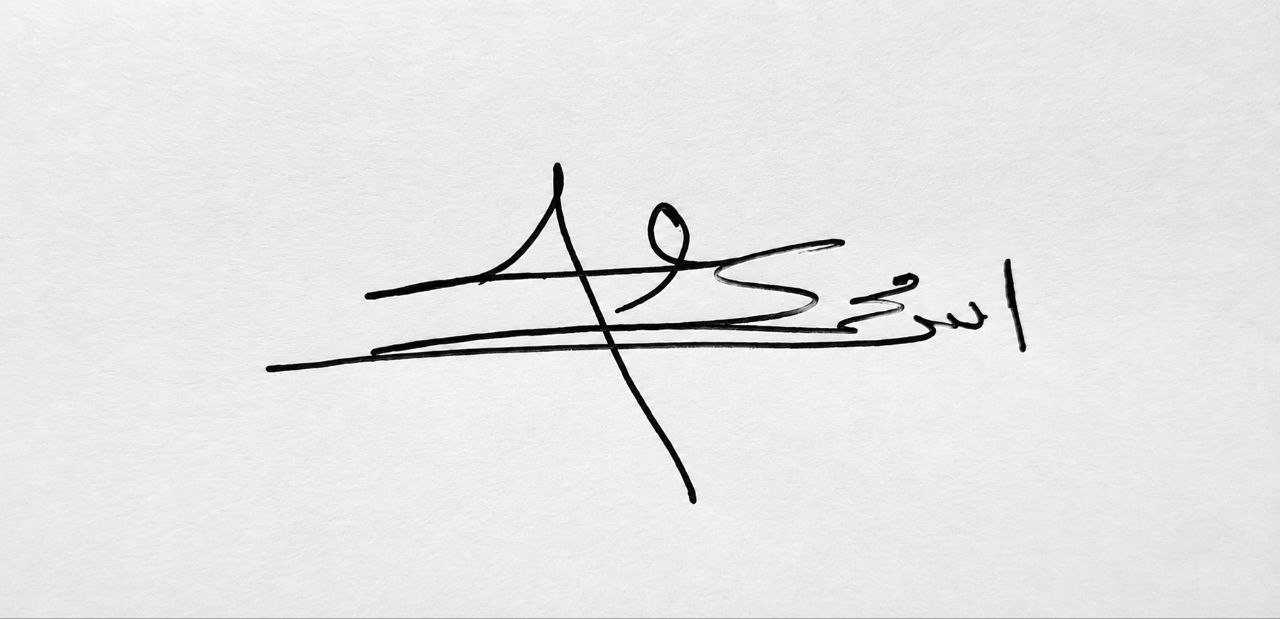
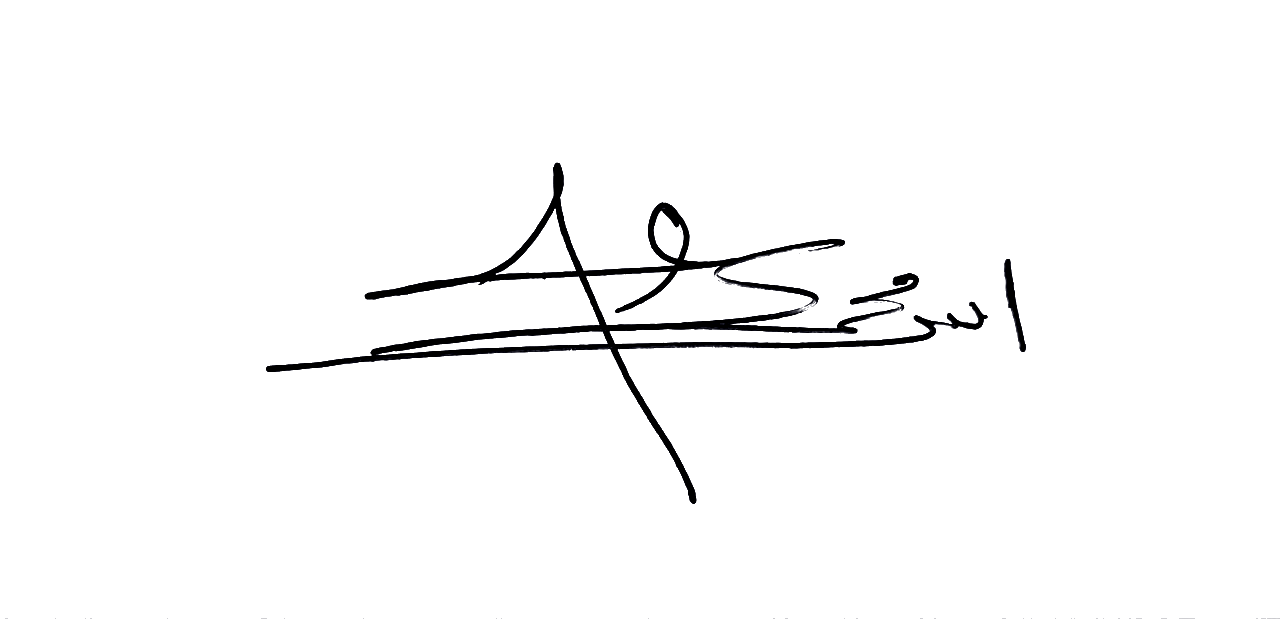
fix: convert signature to true 100% transparent PNG and place right over signature line

diff --git a/src/components/CertificateModal.tsx b/src/components/CertificateModal.tsx
@@ -551,24 +551,25 @@ export default function CertificateModal({ data, onClose }: { data: CertificateD
                 </p>
 
                 {/* Handwritten Signature Image & Line */}
-                <div style={{ position: 'relative', width: 220, marginTop: 4 }}>
+                <div style={{ position: 'relative', width: 220, marginTop: 14 }}>
+                  <div style={{ borderBottom: '1.5px solid #64748b', width: '100%', paddingBottom: 2, display: 'flex', alignItems: 'center', justifyContent: 'space-between' }}>
+                    <span style={{ fontSize: 9.5, fontWeight: 900, color: '#64748b' }}>
+                      {isAr ? 'التوقيع المعتمد ✍' : 'Authorized Signature ✍'}
+                    </span>
+                  </div>
                   <img
                     src="/dr-ismail-signature.png"
                     alt="التوقيع المعتمد"
                     style={{
+                      position: 'absolute',
+                      bottom: 2,
+                      right: isAr ? 0 : 'auto',
+                      left: isAr ? 'auto' : 0,
                       height: 48,
                       objectFit: 'contain',
-                      marginBottom: -12,
-                      marginLeft: isAr ? '0' : 'auto',
-                      marginRight: isAr ? 'auto' : '0',
-                      mixBlendMode: 'multiply'
+                      pointerEvents: 'none'
                     }}
                   />
-                  <div style={{ borderBottom: '1.5px solid #94a3b8', width: '100%', paddingTop: 4, display: 'flex', justifyContent: isAr ? 'flex-start' : 'flex-end' }}>
-                    <span style={{ fontSize: 9.5, fontWeight: 900, color: '#64748b' }}>
-                      {isAr ? 'التوقيع المعتمد' : 'Authorized Signature'}
-                    </span>
-                  </div>
                 </div>
               </div>
 

diff --git a/src/components/ExcellenceCertificateTab.tsx b/src/components/ExcellenceCertificateTab.tsx
@@ -615,15 +615,23 @@ function OfficialMasarCertificateDesign({ form, isPrintTarget = false }: { form:
             {form.doctorTitle}
           </p>
 
-          <div style={{ position: 'relative', width: 220, marginTop: 4 }}>
+          {/* Handwritten Signature Image & Line */}
+          <div style={{ position: 'relative', width: 220, marginTop: 14 }}>
+            <div style={{ borderBottom: '1.5px solid #64748b', width: '100%', display: 'flex', alignItems: 'center', justifyContent: 'space-between' }}>
+              <span style={{ fontSize: 9.5, fontWeight: 900, color: '#64748b' }}>التوقيع المعتمد ✍</span>
+            </div>
             <img
               src="/dr-ismail-signature.png"
               alt="التوقيع المعتمد"
-              style={{ height: 48, objectFit: 'contain', marginBottom: -12, mixBlendMode: 'multiply' }}
+              style={{
+                position: 'absolute',
+                bottom: 2,
+                right: 0,
+                height: 48,
+                objectFit: 'contain',
+                pointerEvents: 'none'
+              }}
             />
-            <div style={{ borderBottom: '1.5px solid #94a3b8', width: '100%', paddingTop: 4, display: 'flex', justifyContent: 'flex-start' }}>
-              <span style={{ fontSize: 9.5, fontWeight: 900, color: '#64748b' }}>التوقيع المعتمد ✍</span>
-            </div>
           </div>
         </div>
 
